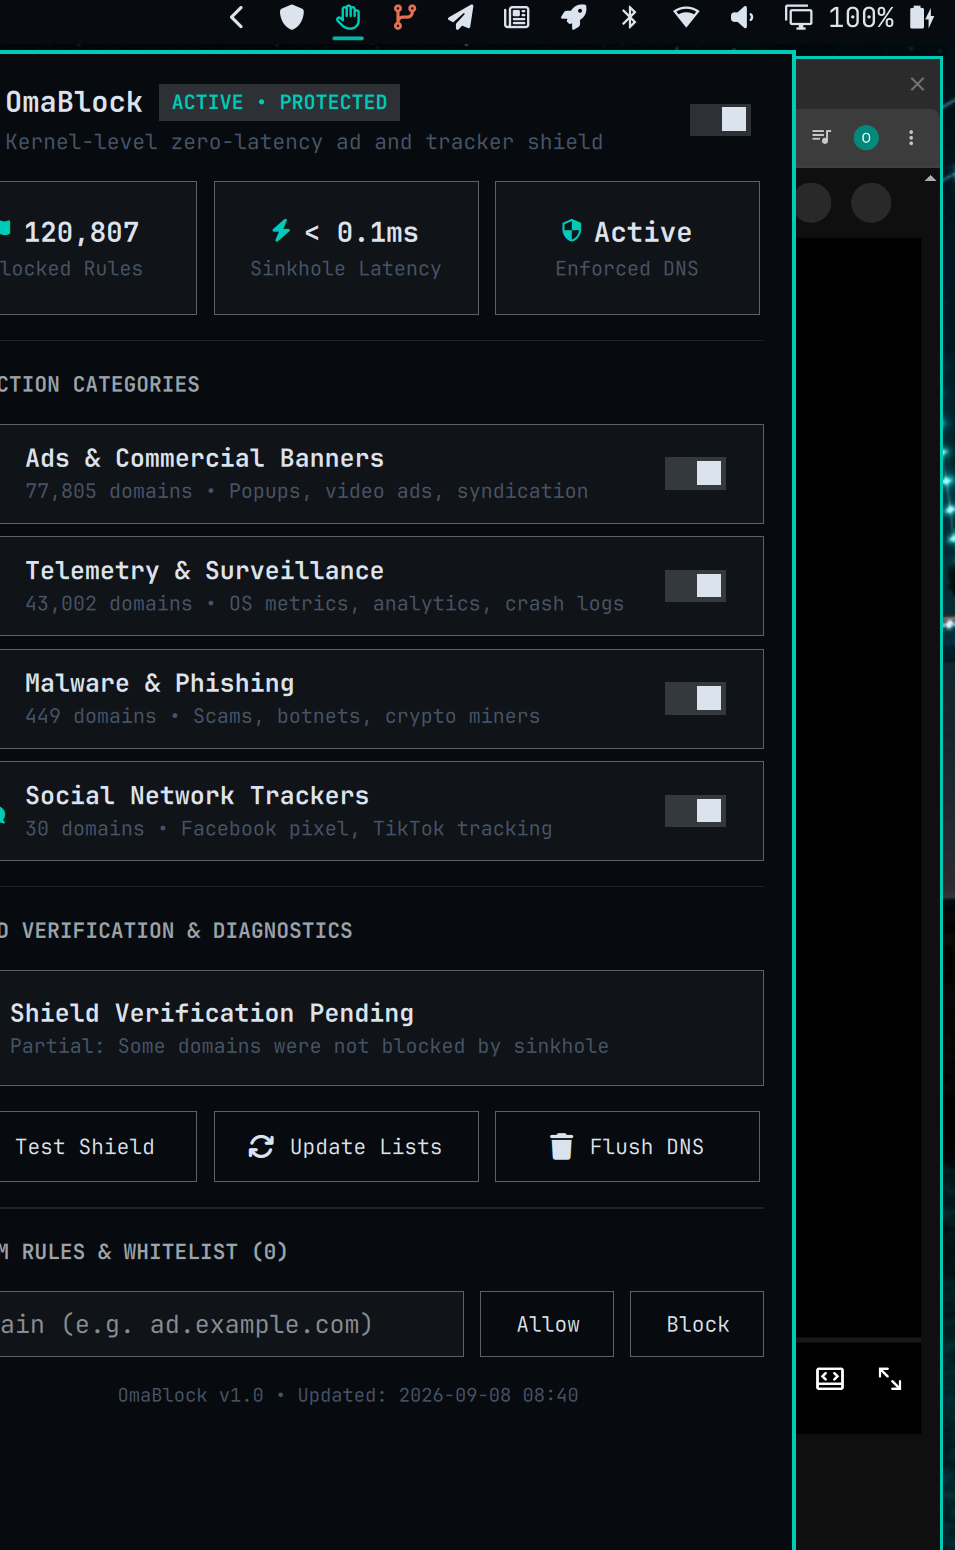
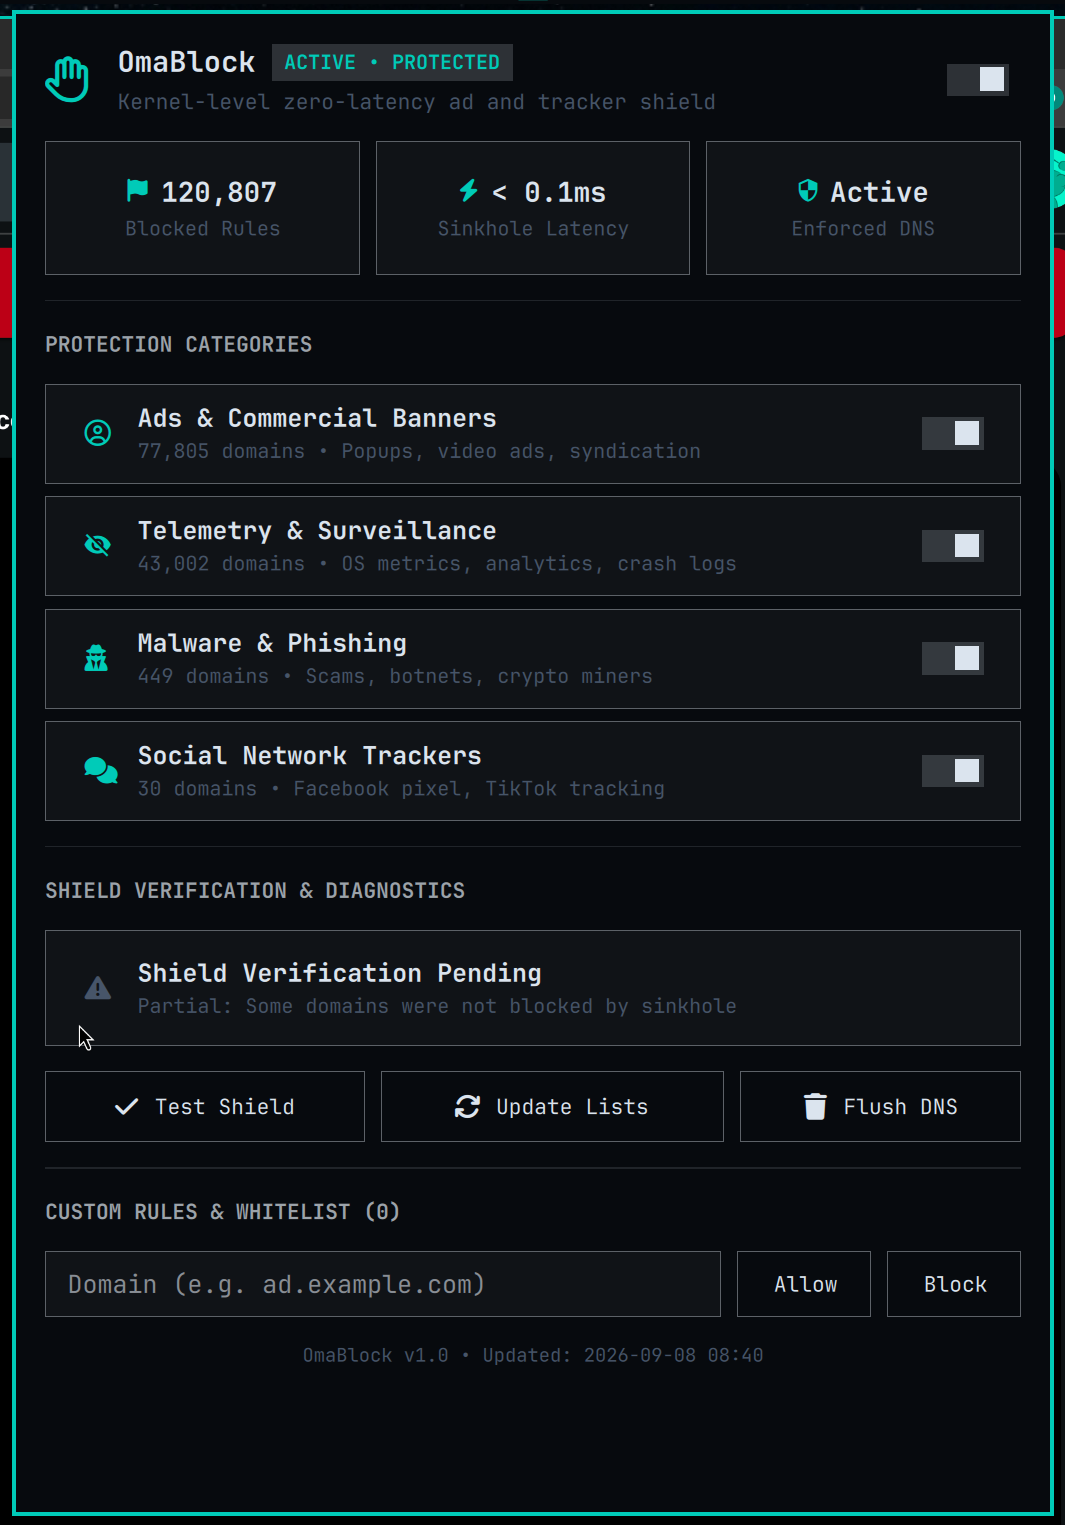
fix(ui): expand panel to 500px standard and eliminate all label truncation

diff --git a/Panel.qml b/Panel.qml
@@ -243,7 +243,7 @@ Panel {
     owner: root
     bar: root.bar
     open: root.opened
-    contentWidth: panel.fittedContentWidth(Style.space(430))
+    contentWidth: panel.fittedContentWidth(Style.space(500))
     contentHeight: panel.fittedContentHeight(panelColumn.implicitHeight + Style.space(24), Style.space(840))
 
     ScrollView {
@@ -367,13 +367,13 @@ Panel {
         }
 
         // ---------- Key Metrics 3-Card Row ----------
-        Row {
+        RowLayout {
           width: parent.width
           spacing: Style.space(8)
 
           // Card 1: Active Rules
           BorderSurface {
-            width: Math.floor((parent.width - Style.space(16)) / 3)
+            Layout.fillWidth: true
             implicitHeight: Style.space(64)
             radius: Style.cornerRadius
             color: Style.controlFill(false, false, Color.foreground, Color.accent)
@@ -415,7 +415,7 @@ Panel {
 
           // Card 2: Speed / Latency
           BorderSurface {
-            width: Math.floor((parent.width - Style.space(16)) / 3)
+            Layout.fillWidth: true
             implicitHeight: Style.space(64)
             radius: Style.cornerRadius
             color: Style.controlFill(false, false, Color.foreground, Color.accent)
@@ -457,7 +457,7 @@ Panel {
 
           // Card 3: DNS Enforcement
           BorderSurface {
-            width: Math.floor((parent.width - Style.space(16)) / 3)
+            Layout.fillWidth: true
             implicitHeight: Style.space(64)
             radius: Style.cornerRadius
             color: Style.controlFill(false, false, Color.foreground, Color.accent)
@@ -561,6 +561,8 @@ Panel {
                 font.family: Style.font.family
                 font.pixelSize: Style.font.body
                 font.bold: true
+                elide: Text.ElideRight
+                width: parent.width
               }
 
               Text {
@@ -626,6 +628,8 @@ Panel {
                 font.family: Style.font.family
                 font.pixelSize: Style.font.body
                 font.bold: true
+                elide: Text.ElideRight
+                width: parent.width
               }
 
               Text {
@@ -691,6 +695,8 @@ Panel {
                 font.family: Style.font.family
                 font.pixelSize: Style.font.body
                 font.bold: true
+                elide: Text.ElideRight
+                width: parent.width
               }
 
               Text {
@@ -756,6 +762,8 @@ Panel {
                 font.family: Style.font.family
                 font.pixelSize: Style.font.body
                 font.bold: true
+                elide: Text.ElideRight
+                width: parent.width
               }
 
               Text {
@@ -784,52 +792,55 @@ Panel {
           color: Style.controlFill(false, false, Color.foreground, Color.accent)
           borderSpec: Border.controlSpec(root.testSuccess ? "selected" : "normal", Color.foreground, Color.accent)
 
-          Row {
-            anchors.fill: parent
+          Text {
+            id: diagIcon
+            anchors.left: parent.left
             anchors.leftMargin: Style.space(12)
+            anchors.verticalCenter: parent.verticalCenter
+            width: Style.space(22)
+            horizontalAlignment: Text.AlignHCenter
+            text: root.isTesting ? "" : (root.testSuccess ? "" : "")
+            font.family: Style.font.family
+            font.pixelSize: Style.font.icon
+            color: root.isTesting ? Color.foreground : (root.testSuccess ? Color.accent : Color.muted)
+          }
+
+          Column {
+            anchors.left: diagIcon.right
+            anchors.leftMargin: Style.space(10)
+            anchors.right: parent.right
             anchors.rightMargin: Style.space(12)
-            spacing: Style.space(12)
+            anchors.verticalCenter: parent.verticalCenter
+            spacing: Style.space(1)
 
             Text {
-              anchors.verticalCenter: parent.verticalCenter
-              text: root.isTesting ? "" : (root.testSuccess ? "" : "")
+              text: root.isTesting ? "Resolving test ad domains..." : (root.testSuccess ? "Sinkhole Verified & Active" : "Shield Verification Pending")
+              color: Color.foreground
               font.family: Style.font.family
-              font.pixelSize: Style.font.icon
-              color: root.isTesting ? Color.foreground : (root.testSuccess ? Color.accent : Color.muted)
+              font.pixelSize: Style.font.body
+              font.bold: true
+              elide: Text.ElideRight
+              width: parent.width
             }
 
-            Column {
-              anchors.verticalCenter: parent.verticalCenter
-              spacing: Style.space(1)
-              width: parent.width - Style.space(50)
-
-              Text {
-                text: root.isTesting ? "Resolving test ad domains..." : (root.testSuccess ? "Sinkhole Verified & Active" : "Shield Verification Pending")
-                color: Color.foreground
-                font.family: Style.font.family
-                font.pixelSize: Style.font.body
-                font.bold: true
-              }
-
-              Text {
-                text: root.testMessage ? root.testMessage : "Test known ad servers (doubleclick.net, pagead2) for 0.0.0.0 sinkhole."
-                color: Color.muted
-                font.family: Style.font.family
-                font.pixelSize: Style.font.caption - 1
-                elide: Text.ElideRight
-                width: parent.width
-              }
+            Text {
+              text: root.testMessage ? root.testMessage : "Test known ad servers (doubleclick.net, pagead2) for 0.0.0.0 sinkhole."
+              color: Color.muted
+              font.family: Style.font.family
+              font.pixelSize: Style.font.caption - 1
+              elide: Text.ElideRight
+              width: parent.width
             }
           }
         }
 
         // Action Buttons Row
-        Row {
+        RowLayout {
           width: parent.width
           spacing: Style.space(8)
 
           Button {
-            width: Math.floor((parent.width - Style.space(16)) / 3)
+            Layout.fillWidth: true
             implicitHeight: Style.space(34)
             horizontalPadding: Style.space(6)
             bordered: true
@@ -840,7 +851,7 @@ Panel {
           }
 
           Button {
-            width: Math.floor((parent.width - Style.space(16)) / 3)
+            Layout.fillWidth: true
             implicitHeight: Style.space(34)
             horizontalPadding: Style.space(6)
             bordered: true
@@ -851,7 +862,7 @@ Panel {
           }
 
           Button {
-            width: Math.floor((parent.width - Style.space(16)) / 3)
+            Layout.fillWidth: true
             implicitHeight: Style.space(34)
             horizontalPadding: Style.space(6)
             bordered: true
@@ -944,14 +955,13 @@ Panel {
               color: Style.controlFill(false, false, Color.foreground, Color.accent)
               borderSpec: Border.controlSpec("normal", Color.foreground, Color.accent)
 
-              Row {
+              RowLayout {
                 anchors.fill: parent
                 anchors.leftMargin: Style.space(8)
                 anchors.rightMargin: Style.space(8)
                 spacing: Style.space(8)
 
                 Text {
-                  anchors.verticalCenter: parent.verticalCenter
                   text: " Allow:"
                   font.family: Style.font.family
                   font.pixelSize: Style.font.caption - 1
@@ -960,19 +970,17 @@ Panel {
                 }
 
                 Text {
-                  anchors.verticalCenter: parent.verticalCenter
+                  Layout.fillWidth: true
                   text: modelData
                   font.family: Style.font.family
                   font.pixelSize: Style.font.caption
                   color: Color.foreground
-                  width: parent.width - Style.space(80)
                   elide: Text.ElideRight
                 }
 
                 MouseArea {
-                  anchors.verticalCenter: parent.verticalCenter
-                  width: Style.space(20)
-                  height: Style.space(20)
+                  Layout.preferredWidth: Style.space(20)
+                  Layout.preferredHeight: Style.space(20)
                   cursorShape: Qt.PointingHandCursor
                   onClicked: root.removeWhitelist(modelData)
 
@@ -997,14 +1005,13 @@ Panel {
               color: Style.controlFill(false, false, Color.foreground, Color.accent)
               borderSpec: Border.controlSpec("normal", Color.foreground, Color.accent)
 
-              Row {
+              RowLayout {
                 anchors.fill: parent
                 anchors.leftMargin: Style.space(8)
                 anchors.rightMargin: Style.space(8)
                 spacing: Style.space(8)
 
                 Text {
-                  anchors.verticalCenter: parent.verticalCenter
                   text: " Block:"
                   font.family: Style.font.family
                   font.pixelSize: Style.font.caption - 1
@@ -1013,19 +1020,17 @@ Panel {
                 }
 
                 Text {
-                  anchors.verticalCenter: parent.verticalCenter
+                  Layout.fillWidth: true
                   text: modelData
                   font.family: Style.font.family
                   font.pixelSize: Style.font.caption
                   color: Color.foreground
-                  width: parent.width - Style.space(80)
                   elide: Text.ElideRight
                 }
 
                 MouseArea {
-                  anchors.verticalCenter: parent.verticalCenter
-                  width: Style.space(20)
-                  height: Style.space(20)
+                  Layout.preferredWidth: Style.space(20)
+                  Layout.preferredHeight: Style.space(20)
                   cursorShape: Qt.PointingHandCursor
                   onClicked: root.removeBlacklist(modelData)
 
